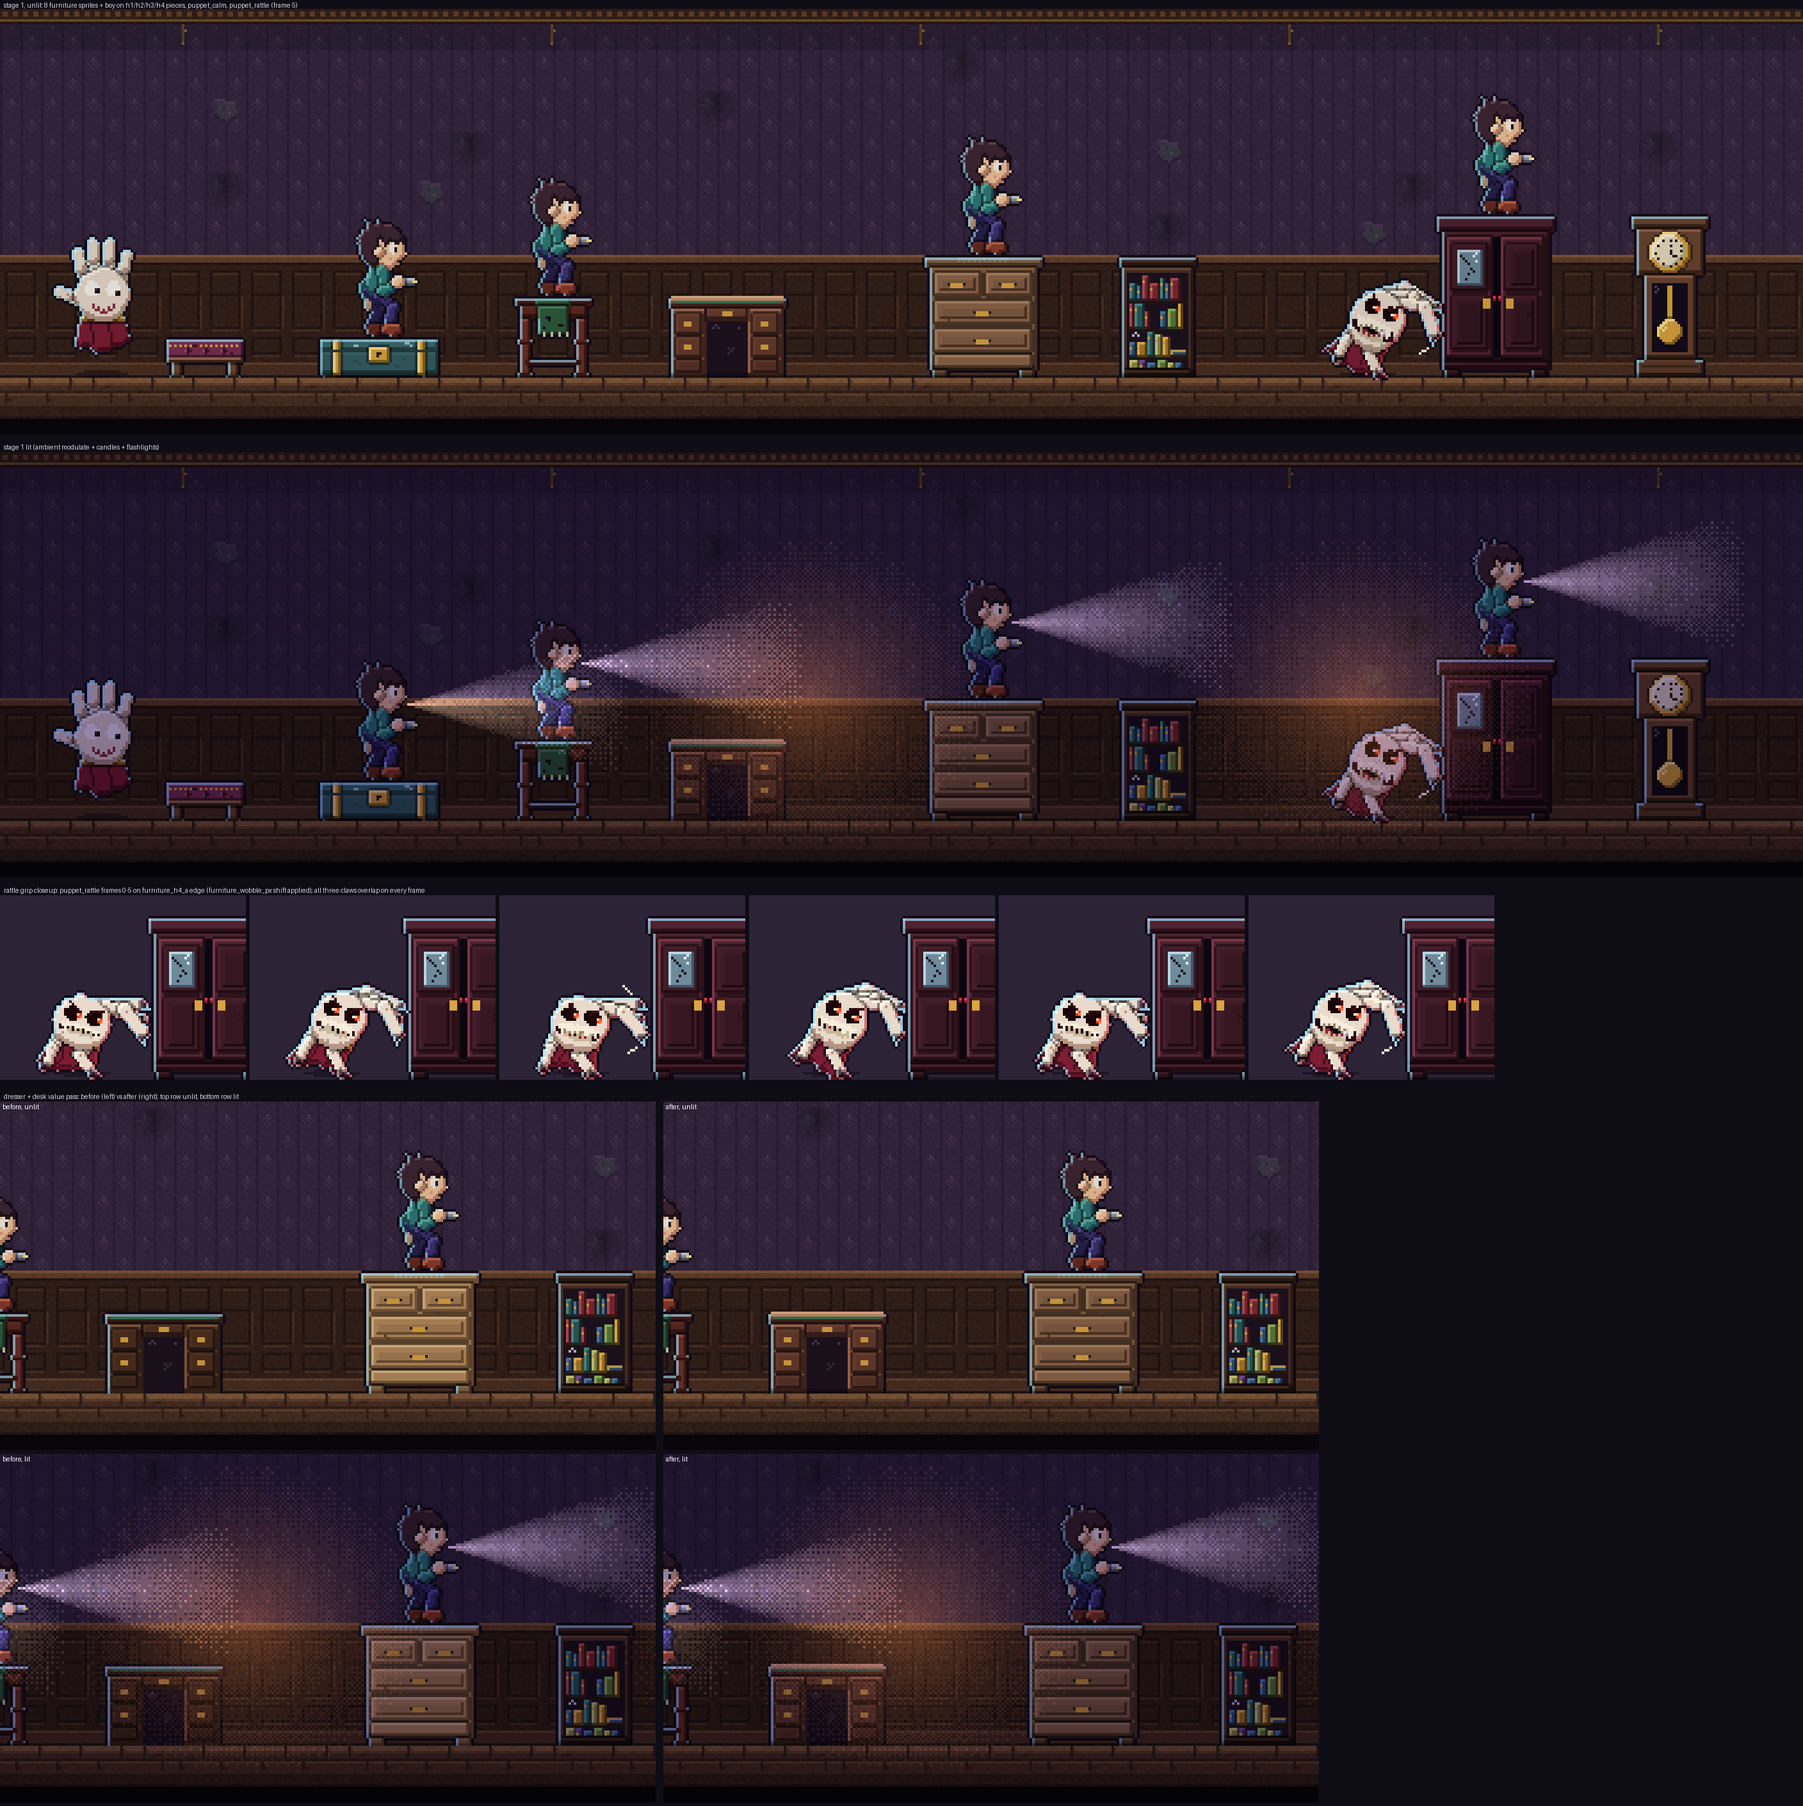
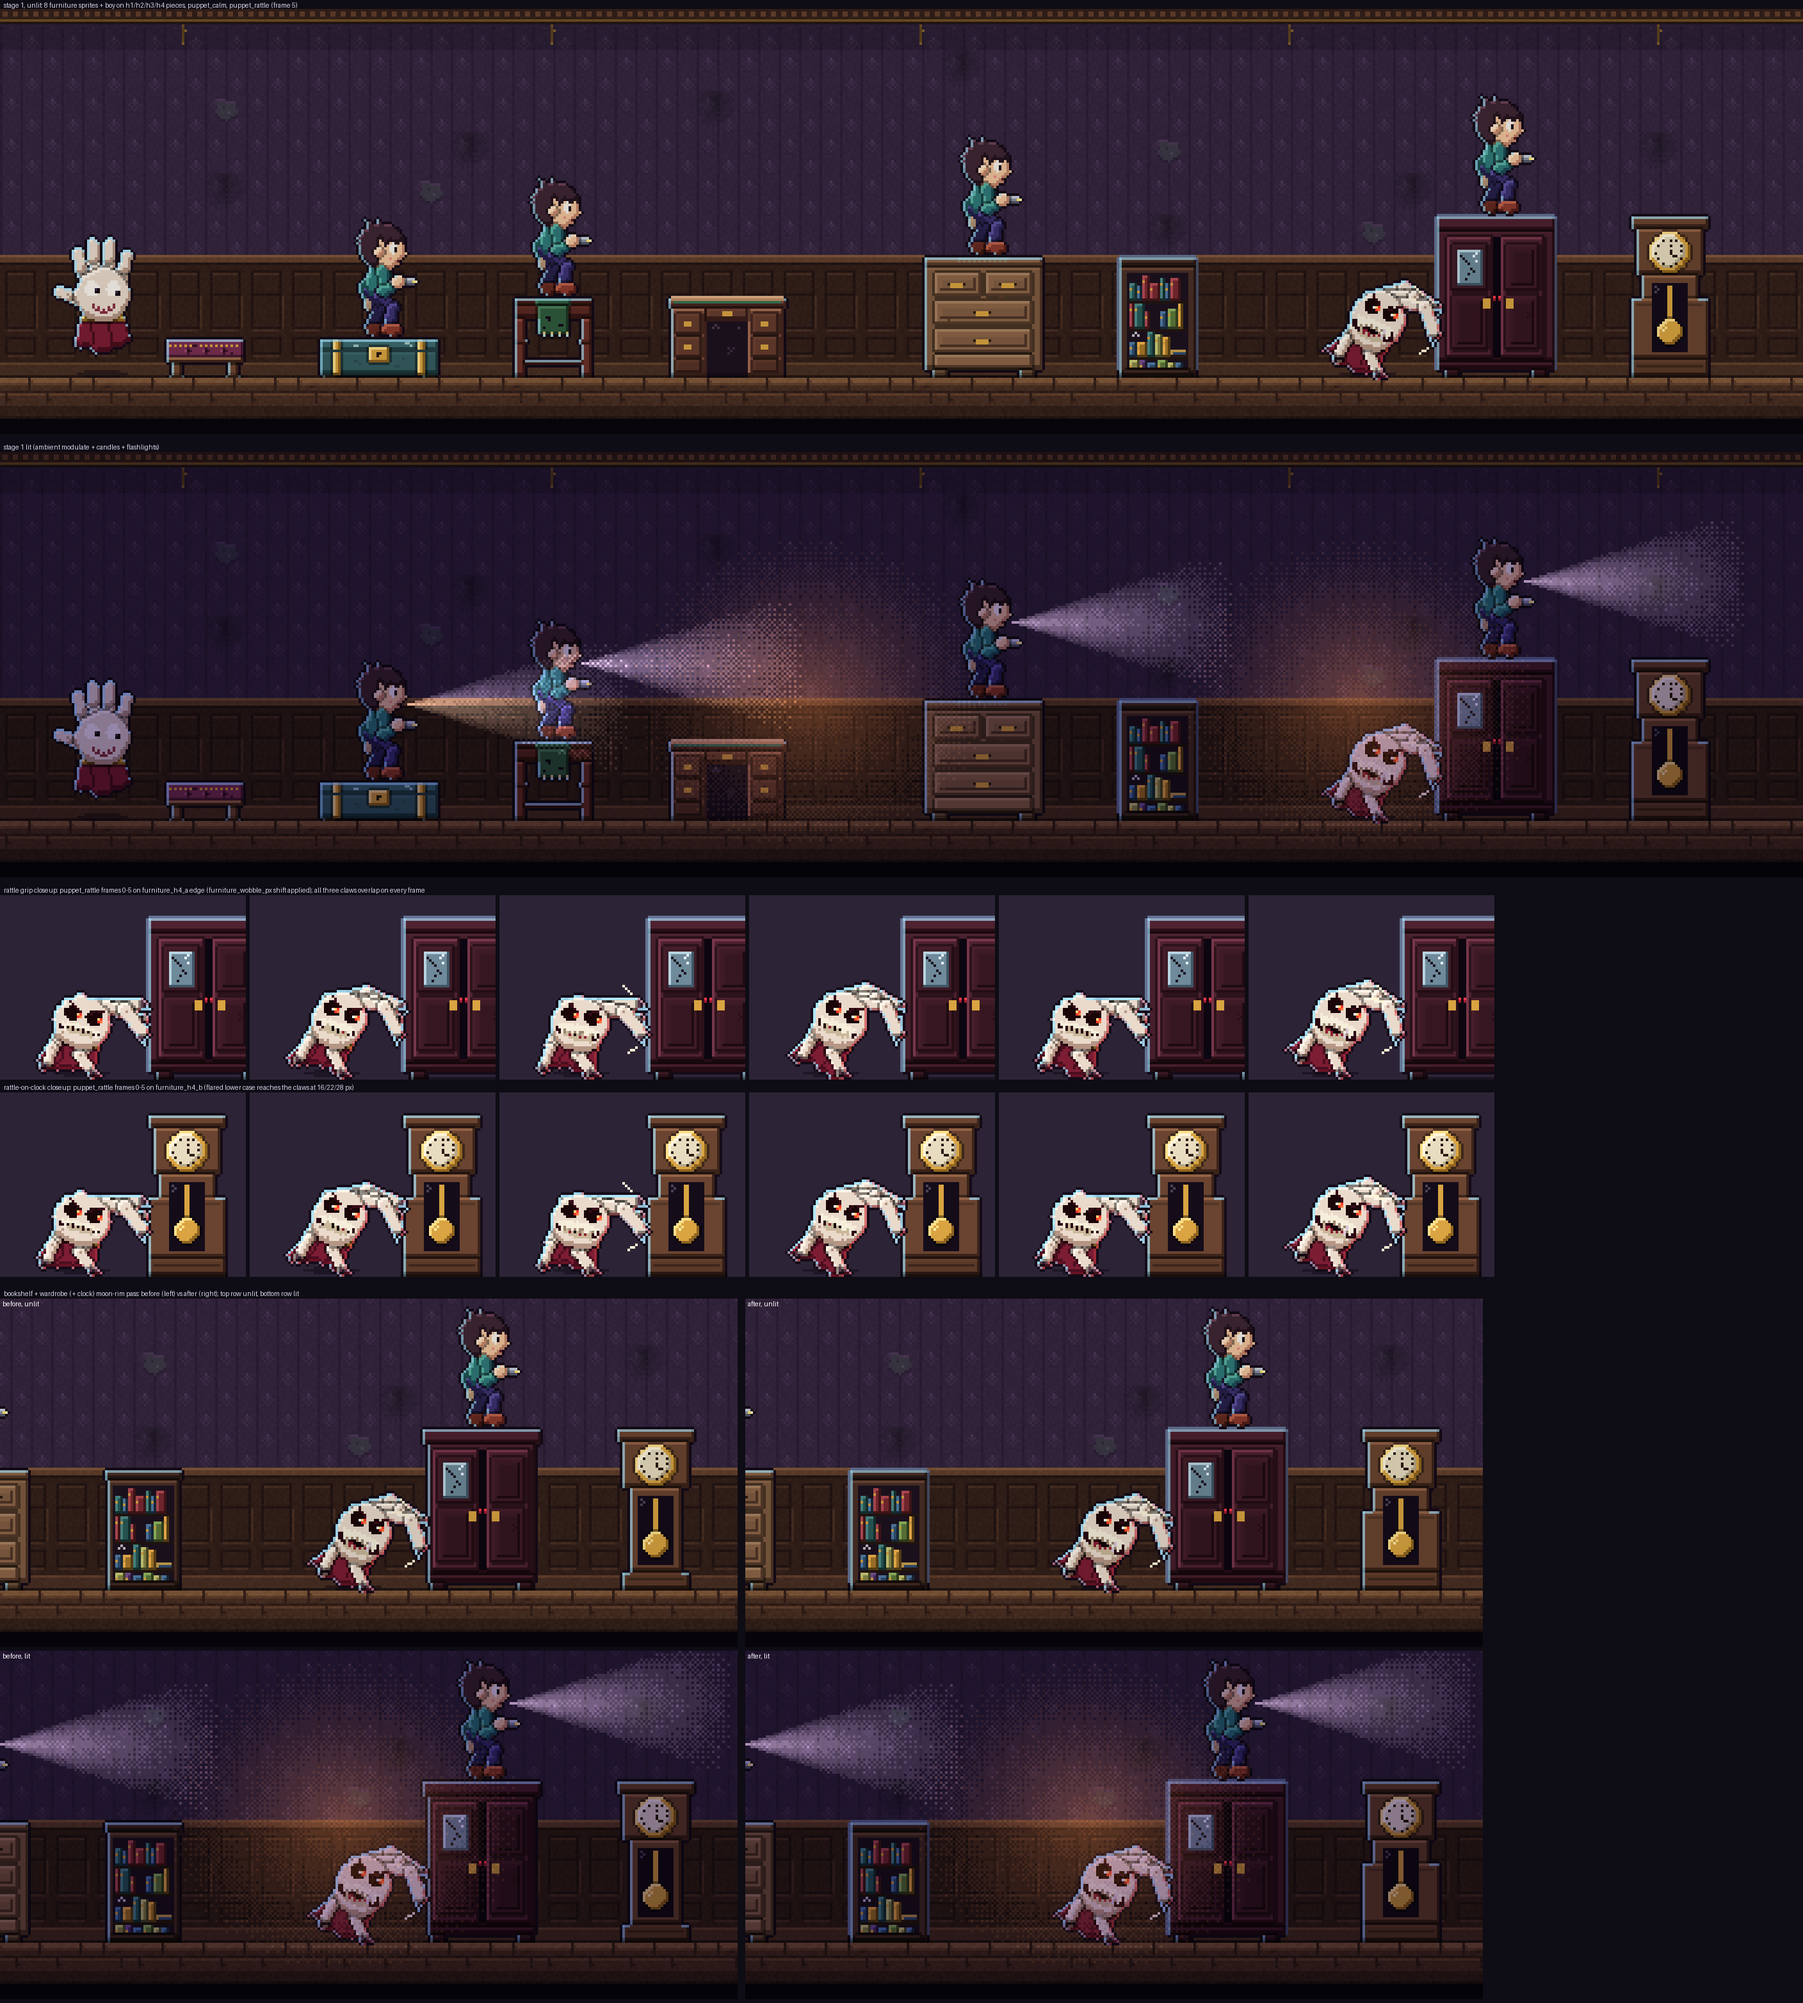
Art: furniture nits (clock flared case + full-width bodies for rattle grip, moon rim on wardrobe/bookshelf)

diff --git a/docs/DESIGN.md b/docs/DESIGN.md
@@ -136,7 +136,7 @@ Solid furniture is **8 separate sprites, one manifest slot each** (no atlas, no 
 | furniture_h4_a | wardrobe | 48×64 | 3×4 | 4 | 64 | 48 |
 | furniture_h4_b | grandfather clock | 32×64 | 2×4 | 4 | 64 | 32 |
 
-Rules: sprite height == `height_class × 16`. **Row 0 is the walkable top surface** (the topmost opaque row, flat, exactly at the collision top); the **last row stands on the floor**. Pivot is **bottom-centre** `[width/2, height−1]`. Place the sprite's top-left at `(x*16, surf − h*16)`. Widths are 1–3 tiles (16/32/48). The rolled `w` is 2 or 3, so every class has both a 32 px and a 48 px piece: prefer `width_px == w*16`, otherwise centre the sprite on the collision box. Manifest fields: `height_class`, `collision_height_px`, `width_px`, `width_tiles`. Templates `assets/replace_me/<slot>_template.png` mark row 0 (green) and every 16 px (red ticks). `furniture_h4_b` is a flat-topped solid clock, separate from the decorative `prop_grandfather_clock`. Rattle: shift the sprite by `furniture_wobble_px` from `puppet_rattle`. Every sprite has a 1–2 px contact shadow drawn inside its bounds (bottom two rows darkened, the gaps between legs in the last row semi-transparent dark); no shadow lies outside the sprite, a code-drawn floor shadow is optional. Value pass: `furniture_h3_a` is a mid-range brown (puppets stay the brightest, most contrasty things); `furniture_h2_b` has a light tan top lip on rows 0–1 and lighter wood so it separates from the wainscot. Preview: `docs/previews/furniture_stages_4x.png`.
+Rules: sprite height == `height_class × 16`. **Row 0 is the walkable top surface** (the topmost opaque row, flat, exactly at the collision top); the **last row stands on the floor**. Pivot is **bottom-centre** `[width/2, height−1]`. Place the sprite's top-left at `(x*16, surf − h*16)`. Widths are 1–3 tiles (16/32/48). The rolled `w` is 2 or 3, so every class has both a 32 px and a 48 px piece: prefer `width_px == w*16`, otherwise centre the sprite on the collision box. Manifest fields: `height_class`, `collision_height_px`, `width_px`, `width_tiles`. Templates `assets/replace_me/<slot>_template.png` mark row 0 (green) and every 16 px (red ticks). `furniture_h4_b` is a flat-topped solid clock, separate from the decorative `prop_grandfather_clock`. Rattle: shift the sprite by `furniture_wobble_px` from `puppet_rattle`. Every sprite has a 1–2 px contact shadow drawn inside its bounds (bottom two rows darkened, the gaps between legs in the last row semi-transparent dark); no shadow lies outside the sprite, a code-drawn floor shadow is optional. Rattle grip: from `furniture_h2_a` up, the body reaches both side edges over 12–32 px above the floor (full-width carcass / legs; the clock has a flared lower case), so `puppet_rattle` claws overlap the piece by ≥ 1 px on every frame, either flip (measured; h1 pieces are below the 16 px grip and are never rattled). Dark readability: `furniture_h4_a` and `furniture_h3_b` carry a cool moonlight-blue edge highlight on the left/top/right silhouette edge. Value pass: `furniture_h3_a` is a mid-range brown (puppets stay the brightest, most contrasty things); `furniture_h2_b` has a light tan top lip on rows 0–1 and lighter wood so it separates from the wainscot. Preview: `docs/previews/furniture_stages_4x.png`.
 
 ## How to replace an animation
 Animated slots (`boy_idle`, `boy_run`, `boy_jump`, `boy_pickup`, `boy_carry`, `boy_throw`, `boy_climb_stairs`, `boy_hurt`, `puppet_calm`, `puppet_startle`, `puppet_chase`, `puppet_chase_float`, `puppet_reach_up`, `puppet_rattle`, `vase_*`, `music_box_world`, `vfx_creak`, `vfx_rattle`) are **one horizontal PNG strip** per slot: frames left→right, no padding, transparent background. Frame data lives only in `assets/ASSETS_MANIFEST.toml` (`frame_size`, `frames`, `fps`, `loop`, `pivot`, plus `hand_points` for `boy_pickup`/`boy_carry`/`boy_throw`: one `[x, y]` per frame, frame-local pixels, where held/thrown objects attach; and `hit_frame` + `reach_height_px` for `puppet_reach_up`: the 0-based frame on which the catch lands and how high above the pivot the claws reach on it. If you redraw it, keep the catch on `hit_frame` and the claw tops on the template's red reach line, or update both fields).
